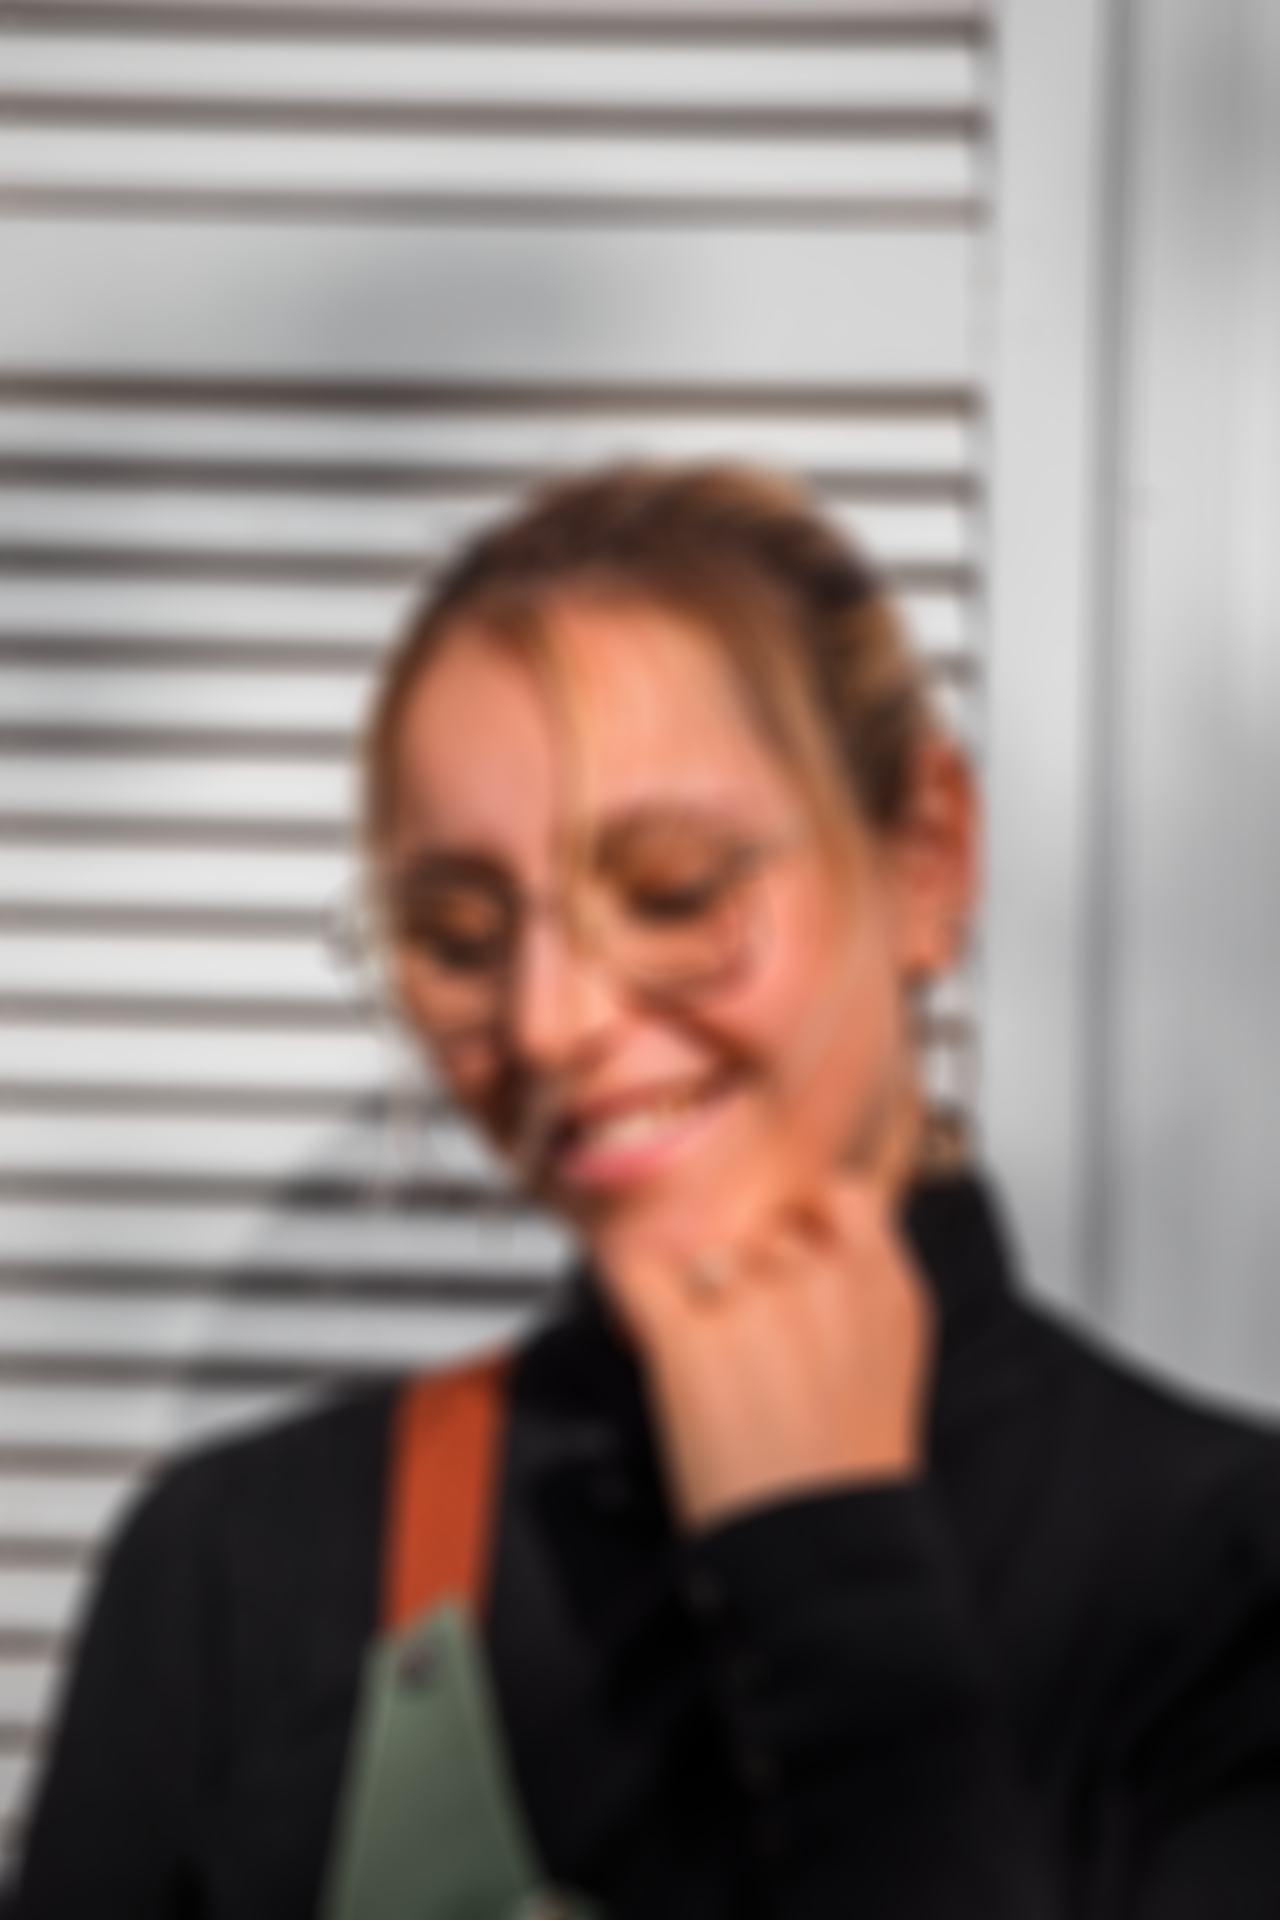
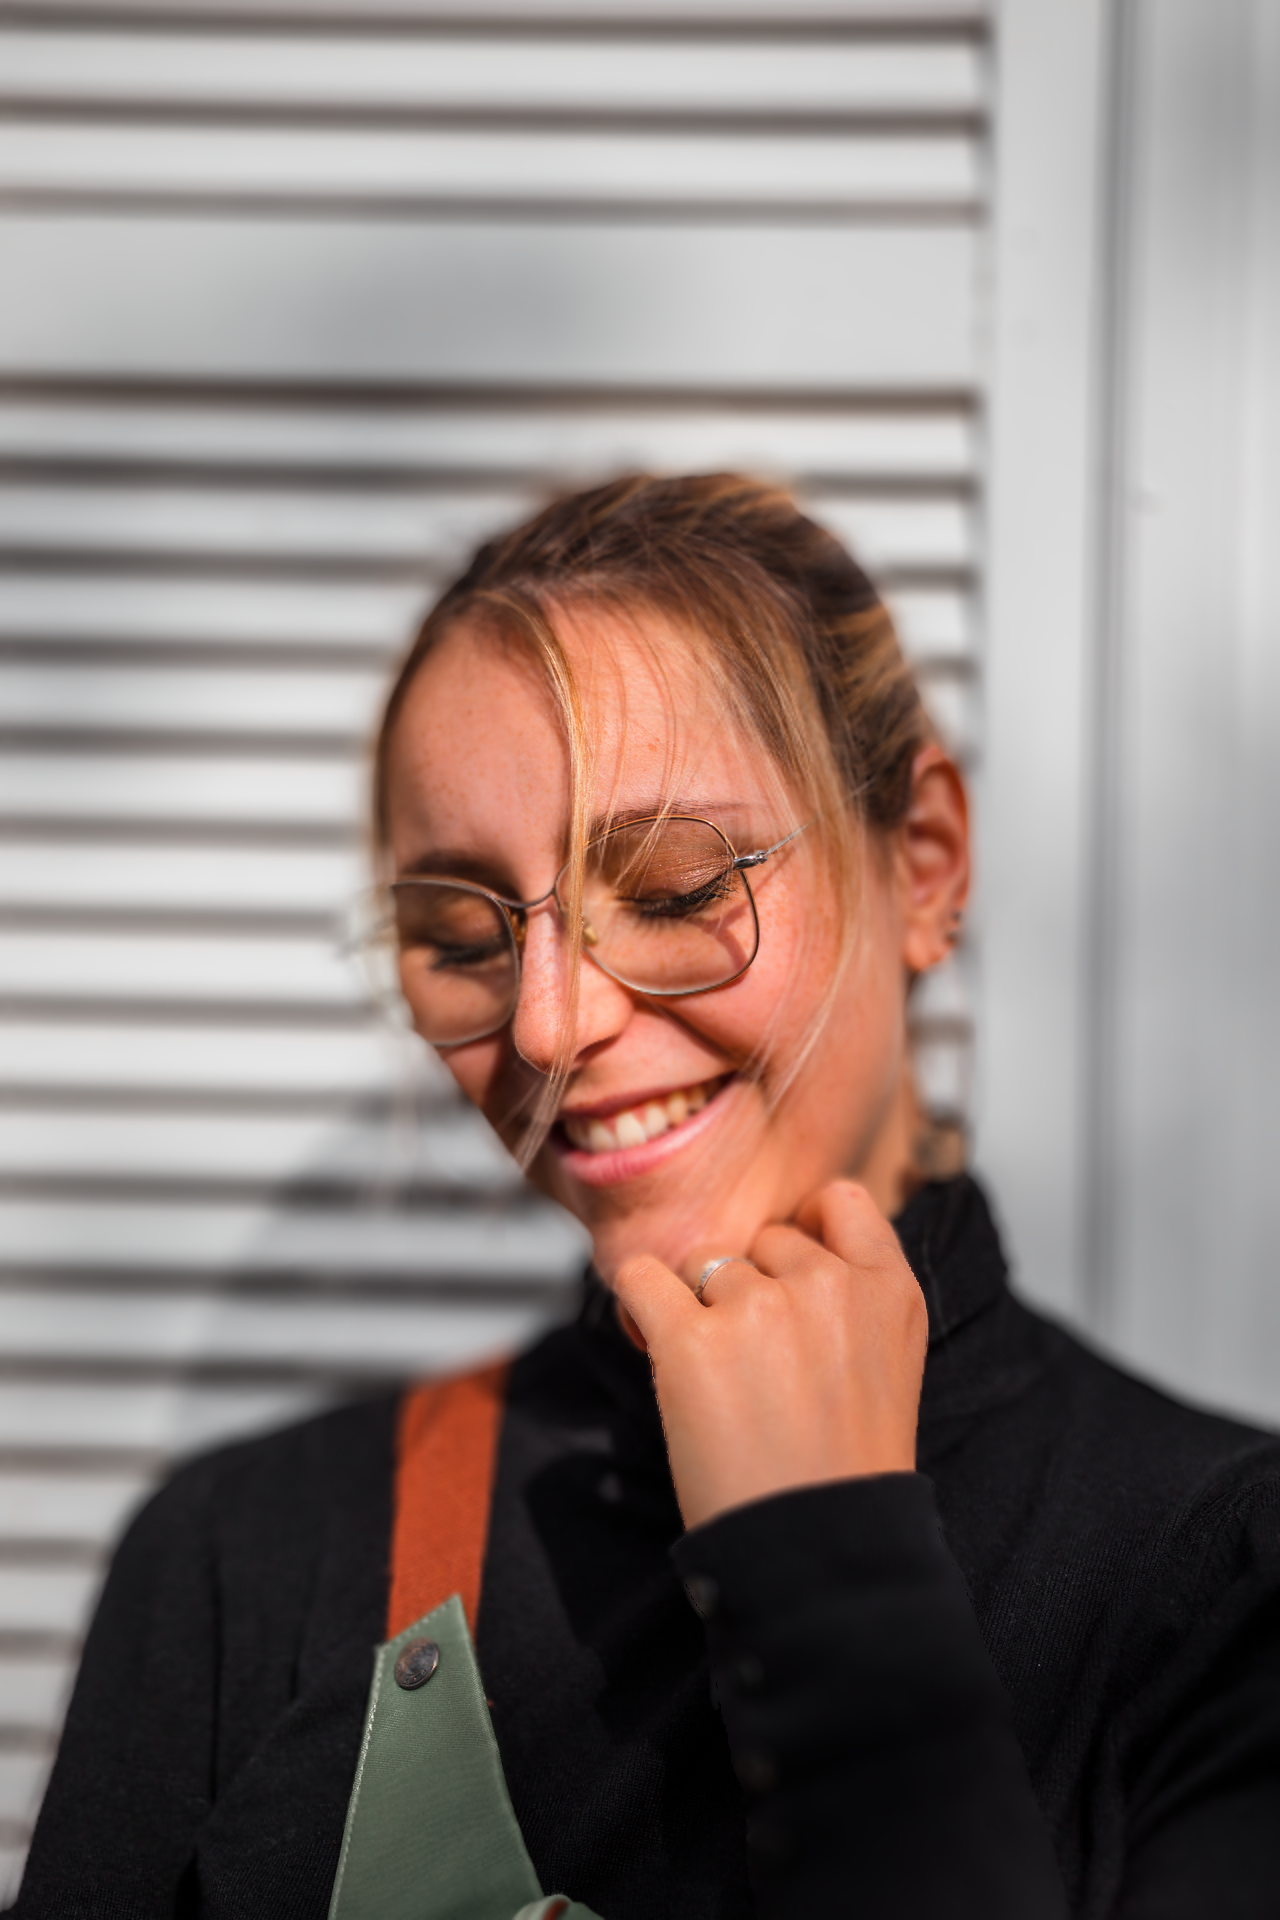
[what] (1) update images about blurred result (2) fixed bugs and remove redundant code

diff --git a/run_scatter_blur.py b/run_scatter_blur.py
@@ -17,12 +17,12 @@ def main():
     sub_h, sub_w = int(h/down_scale), int(w/down_scale)
     sub_img = cv2.resize(img, (sub_w, sub_h))
     
-    blur_img = ScatterBlurOptim(sub_img, sub_blur_r)
-    blur_img = cv2.resize(blur_img, (w, h))
+    blured_img = ScatterBlurOptim(sub_img, sub_blur_r)
+    blured_img = cv2.resize(blured_img, (w, h))
     img_name = os.path.splitext(os.path.basename(img_path))[0]
     save_name = f"{img_name}_blurR_{blur_r}.png"
     save_path = os.path.join(output_folder, save_name)
-    cv2.imwrite(save_path, blur_img)
+    cv2.imwrite(save_path, blured_img)
 
     depth_path = "./examples/001_depth.png"
     depth_map = cv2.imread(depth_path, cv2.IMREAD_GRAYSCALE)
@@ -36,9 +36,9 @@ def main():
     blured_img[focal_region] = img[focal_region]
 
     img_name = os.path.splitext(os.path.basename(img_path))[0]
-    save_name = "{img_name}_blurR_{blur_r}_focalD{focal_depth}_focalL{focal_len}.png"
+    save_name = f"{img_name}_blurR_{blur_r}_focalD{focal_depth}_focalL{focal_len}.png"
     save_path = os.path.join(output_folder, save_name)
-    cv2.imwrite(save_path, blur_img)
+    cv2.imwrite(save_path, blured_img)
 
 if __name__ == "__main__":
     parser = argparse.ArgumentParser()

diff --git a/run_scatter_blur_layer.py b/run_scatter_blur_layer.py
@@ -79,7 +79,6 @@ def decomposeBlur(img: np.ndarray, depth: np.ndarray, focal_depth:int, focal_len
         for i in range(front_band_count):
             d1 = pre_d0
             d0 = max(pre_d0 - front_band_range, 0.0)
-            print(d1, d0)
 
             premultiplied_img, alpha = decompose(img_float, d0, d1)
             blur_img = doBlur(premultiplied_img, alpha, d0)
